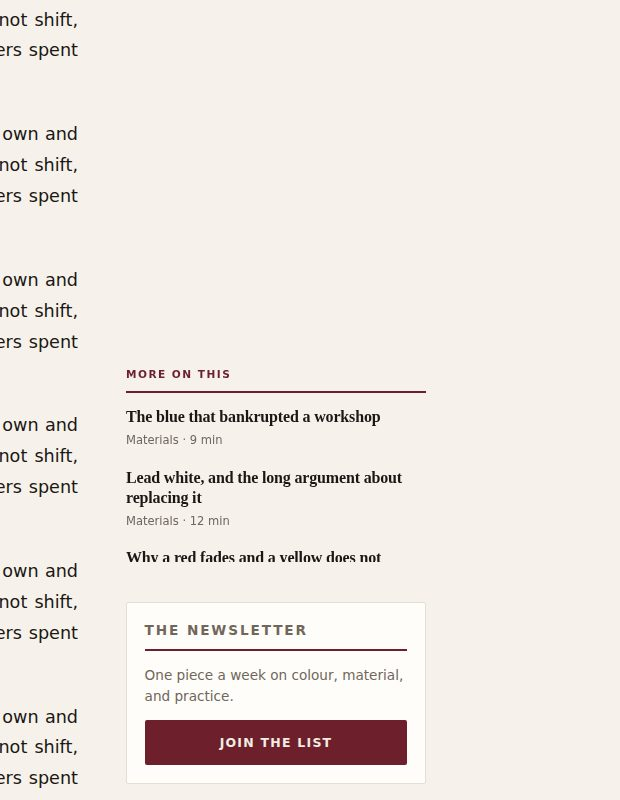
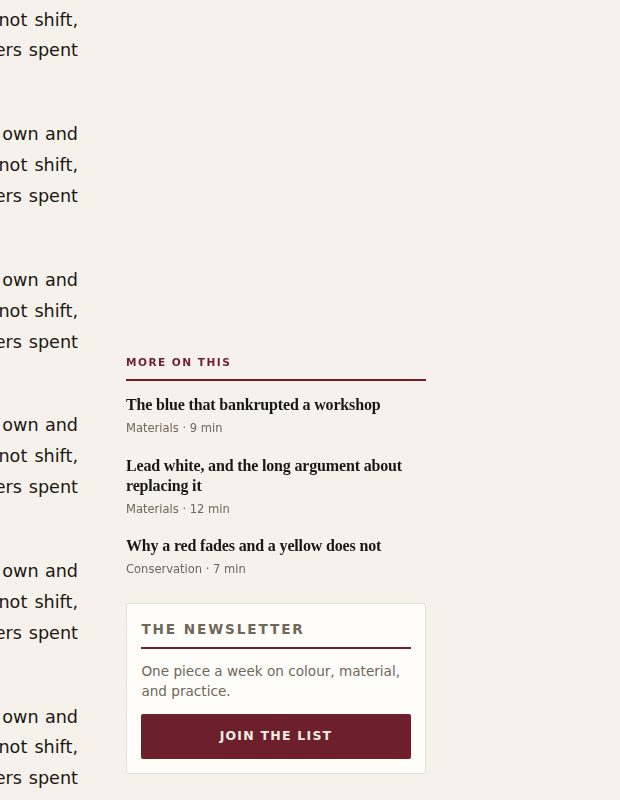
Stop hiding "More on this" from windows that could have held it
The short-window guard added in #137 shipped at `max-height: 700px`, and 700 is
not a rare window: a laptop with a bookmarks bar sits just under it. For those
readers the module did not shrink, it disappeared — silently, which reads as a
bug rather than as the decision it was.

The threshold was not simply lowered. The group's fixed spacing was tightened by
37px first, so that the new number describes a window that genuinely cannot hold
the module: the gap under the reserved unit (1.5rem to 1rem), the rhythm between
the group's modules (2.5rem to 1.5rem, inside the sticky group only — the
contents list above it keeps the rail's rhythm), the newsletter card's padding
(1.1rem to 0.9rem) and its paragraph margin, and the sticky box's own breathing
room above and below (1rem to 0.75rem).

Swept in Chromium from 600 to 900 in 10px steps, scrolled, with the real
stylesheet and the real rail markup: one whole related item now survives to
650px of viewport, where it needed 695 before. Two from 730, three from 790. The
newsletter card is whole at every height in the sweep and the group never needs
its own scrollbar. At 1440x800 — the case in the capture — nothing has to give
at all now: the group is 686px against a 700px cap, so all three pieces and the
card fit outright.

The test no longer pins the number, it pins the direction: the guard may be at
650 or below, never above. A threshold that creeps back up is the same defect
again, and it is invisible from the diff.
[…]

Changed region(s): [[0.1839, 0.4375, 0.6742, 0.7188], [0.2145, 0.7812, 0.6742, 0.9688]]

diff --git a/app/globals.css b/app/globals.css
@@ -3342,7 +3342,7 @@ ol.feature-list__items .feature-list__title::before {
    list, and those 16px were also 16px the newsletter card did not have. */
 .rail__slot {
   min-height: 250px;
-  margin-bottom: 1.5rem;
+  margin-bottom: 1rem;
 }
 
 /* The ad slot, the related pieces and the newsletter travel together and stay
@@ -3374,14 +3374,21 @@ ol.feature-list__items .feature-list__title::before {
    hold even the ad and the card. */
 .rail__sticky {
   position: sticky;
-  top: calc(var(--masthead-h) + 1rem);
-  max-height: calc(100vh - var(--masthead-h) - 2rem);
-  max-height: calc(100dvh - var(--masthead-h) - 2rem);
+  top: calc(var(--masthead-h) + 0.75rem);
+  max-height: calc(100vh - var(--masthead-h) - 1.5rem);
+  max-height: calc(100dvh - var(--masthead-h) - 1.5rem);
   display: flex;
   flex-direction: column;
   overflow-y: auto;
   overscroll-behavior: contain;
   scrollbar-width: thin;
+}
+
+/* The group runs to a tighter rhythm than the rail above it. Every pixel here
+   is a pixel the related list gets on a short window, and the modules read as
+   one block rather than three when they are travelling together anyway. */
+.rail__sticky > .rail__mod {
+  margin-bottom: 1.5rem;
 }
 
 /* Everything in the group holds its height... */
@@ -3410,15 +3417,23 @@ ol.feature-list__items .feature-list__title::before {
 }
 
 /* Past a point shrinking stops being graceful. The fixed parts of the group —
-   the 250px unit, its gap, the label, and the newsletter card — come to 537px,
-   so under about 700px of viewport the list is a 15px window under a heading,
-   which reads as broken rather than tight. It is dropped instead: the related
+   the 250px unit, its gap, the label, and the newsletter card — come to 500px
+   against a cap of the viewport less 100, so under 650px of viewport the list
+   has nothing whole left to show and becomes a sliver under a heading, which
+   reads as broken rather than tight. It is dropped there instead: the related
    pieces close the article on every device, so nothing here is only here.
+
+   650 and not 700. The first version of this guard cost 50px more, which put
+   the cutoff above a large share of real windows — a laptop with a bookmarks
+   bar sits just under 700 — and the module simply vanished for them. The
+   spacing above was tightened to buy that back rather than the threshold being
+   moved on its own: 649 is now a window that genuinely cannot hold the module,
+   not one that was merely close.
 
    This is a `max-height`, not the `min-height` guard it replaced upstream. That
    one turned the sticky group off entirely on most windows; this one drops one
    supplementary module on the windows that provably cannot hold it. */
-@media (max-height: 700px) {
+@media (max-height: 649px) {
   .rail__sticky > .rail__related {
     display: none;
   }
@@ -3434,11 +3449,11 @@ ol.feature-list__items .feature-list__title::before {
   background: var(--color-surface);
   border: 1px solid var(--color-line);
   border-radius: var(--radius);
-  padding: 1.1rem;
+  padding: 0.9rem;
 }
 
 .rail__signup p {
-  margin: 0 0 0.9rem;
+  margin: 0 0 0.75rem;
   font-size: 0.85rem;
   line-height: 1.5;
   color: var(--color-muted);

diff --git a/tests/design/article-layout.test.ts b/tests/design/article-layout.test.ts
@@ -294,14 +294,33 @@ describe('the rail', () => {
     expect(list![1]).toMatch(/overflow-y: auto/)
   })
 
-  // Under about 700px of viewport the list is a 15px window under a heading,
-  // which reads as broken rather than tight. Note this is a `max-height`: it
-  // drops one supplementary module on the windows that cannot hold it, where
-  // the `min-height` guard above turned the whole feature off on most windows.
+  // Under 650px of viewport the list has nothing whole left to show and becomes
+  // a sliver under a heading, which reads as broken rather than tight. Note
+  // this is a `max-height`: it drops one supplementary module on the windows
+  // that cannot hold it, where the `min-height` guard above turned the whole
+  // feature off on most windows.
   it('drops the list rather than showing a sliver of it', () => {
     expect(css).toMatch(
-      /@media \(max-height: 700px\) \{\s*\.rail__sticky > \.rail__related \{\s*display: none;/,
+      /@media \(max-height: \d+px\) \{\s*\.rail__sticky > \.rail__related \{\s*display: none;/,
     )
+  })
+
+  // The threshold is the thing that goes wrong quietly. It shipped at 700px,
+  // which is above a large share of real windows — a laptop with a bookmarks
+  // bar sits just under it — so the module vanished for them and looked like a
+  // bug rather than a decision. Measured in Chromium against the current
+  // spacing, one whole related item survives to 650. A threshold above that is
+  // hiding the module from windows that could have held it.
+  it('hides the list only where the geometry says it cannot fit', () => {
+    const guard =
+      /@media \(max-height: (\d+)px\) \{\s*\.rail__sticky > \.rail__related/.exec(
+        css,
+      )
+    expect(
+      guard,
+      'the short-window guard is missing from globals.css',
+    ).toBeTruthy()
+    expect(Number(guard![1])).toBeLessThanOrEqual(650)
   })
 
   // The elastic module is the related one, and the stylesheet can only know

diff --git a/docs/POST_PAGE_LAYOUT.md b/docs/POST_PAGE_LAYOUT.md
@@ -85,8 +85,8 @@ done with it.
 
 The group is capped at the height of the space it pins into, which is what
 keeps a sticky box from hanging its bottom off the screen where nothing can
-reach it. The group is 721px and the cap is the viewport less 108px, so it
-binds under about 830px of viewport — which is most windows, and means
+reach it. The group is 686px and the cap is the viewport less 100px, so it
+binds under about 790px of viewport — which is most windows, and means
 something in the group has to give.
 
 **Which module gives is decided, not left to the scrollbar.** The unit keeps
@@ -97,23 +97,34 @@ only thing in it a reader is meant to act on — the first thing off the bottom.
 
 | Viewport | Cap  | Group | Related list | What the reader sees     |
 | -------- | ---- | ----- | ------------ | ------------------------ |
-| ≥830     | ≥722 | 721   | 184          | all three pieces         |
-| 800      | 692  | 692   | 155          | two, and part of a third |
-| 720      | 612  | 612   | 75           | one                      |
-| ≤700     | —    | 456   | —            | the unit and the card    |
+| ≥790     | ≥690 | 686   | 184          | all three pieces         |
+| 760      | 660  | 660   | 158          | two, and part of a third |
+| 680      | 580  | 580   | 78           | one                      |
+| ≤649     | —    | 421   | —            | the unit and the card    |
 
-Under 700px the list would be a 15px window under its heading, so it is dropped
-instead — the related pieces close the article on every device, so nothing in
-the rail is only in the rail. That is a `max-height` guard, and it is not the
-`@media (min-height: 820px)` one it replaced upstream: that turned the sticky
-group off entirely, on a group about 700px tall against a 1440×900 laptop's
-roughly 800px of viewport, so on most screens there was no sticky at all and it
-looked like the feature had never been built. This one drops one supplementary
-module on the windows that provably cannot hold it.
+Under 650px the list has nothing whole left to show, so it is dropped instead —
+the related pieces close the article on every device, so nothing in the rail is
+only in the rail.
 
-The space above "More on this" is the unit and a gap — 250px and 1.5rem — not
-the unit and a second band. At the 2.5rem module rhythm it read as 290px of
-nothing, and those 16px were also 16px the card did not have.
+**That threshold shipped wrong once, at 700px.** A laptop with a bookmarks bar
+sits just under 700, so for a large share of real windows the module simply
+vanished, which reads as a bug rather than a decision. The fix was not to move
+the number on its own but to buy the space back: the gap under the unit, the
+rhythm between the group's modules, the card's padding and the sticky box's own
+breathing room were tightened, 37px in total, which moved the point where a
+whole item still fits from 695 to 650. 649 is now a window that genuinely
+cannot hold the module.
+
+Note it is a `max-height` guard, and not the `@media (min-height: 820px)` one it
+replaced upstream: that turned the sticky group off entirely, on a group about
+700px tall against a 1440×900 laptop's roughly 800px of viewport, so on most
+screens there was no sticky at all and it looked like the feature had never been
+built. This one drops one supplementary module on the windows that cannot hold
+it, and the test asserts the threshold can only go down.
+
+The space above "More on this" is the unit and a gap — 250px and 1rem — not the
+unit and a second band. At the 2.5rem module rhythm it read as 290px of nothing,
+and those pixels were also pixels the card did not have.
 
 ## Decisions worth not relitigating
 
@@ -207,3 +218,5 @@ content before believing a change here:
 2. A short viewport. 1280×800 and 1366×768 are where the height cap binds. The
    newsletter card should be whole at every height, the reserved 250px should
    still be 250px, and the related list should be the only thing that gives.
+   Check "More on this" is there at all: it is the one module a change here can
+   remove from the page entirely, and it does so silently.

diff --git a/docs/assets/post-layout/README.md b/docs/assets/post-layout/README.md
@@ -44,9 +44,15 @@ is the rail and a slice of the column beside it.
 | ![The rail before: a 290px empty band, then all three related pieces, then the newsletter card cut through the middle of its Join the list button by the bottom of the screen.](rail-before-1440x800.jpg) | ![The rail after: a 250px band, two related pieces and part of a third in a list that scrolls, and the whole newsletter card — heading, line of copy and button — clear of the bottom of the screen.](rail-after-1440x800.jpg) |
 
 800px of viewport is a 1440x900 laptop with the browser chrome taken off. The
-group is 737px before and the cap is 692px, so 45px of it had nowhere to go —
-and the card, being last, is what went. After, the related list is the only
-module that may shrink, so it absorbs the 45px and the card stays whole.
+group was 737px before and the cap 692px, so 45px of it had nowhere to go — and
+the card, being last, is what went.
+
+After, two things changed. The related list is the only module allowed to
+shrink, so the card can no longer be the thing that gives; and the group's
+spacing was tightened by 37px, which is why at this height nothing has to give
+at all — the group is 686px against a 700px cap, so all three pieces and the
+whole card fit with no scrolling. On a shorter window the list is what absorbs
+the difference, down to 650px of viewport where it is dropped instead.
 
 ## 390
 
